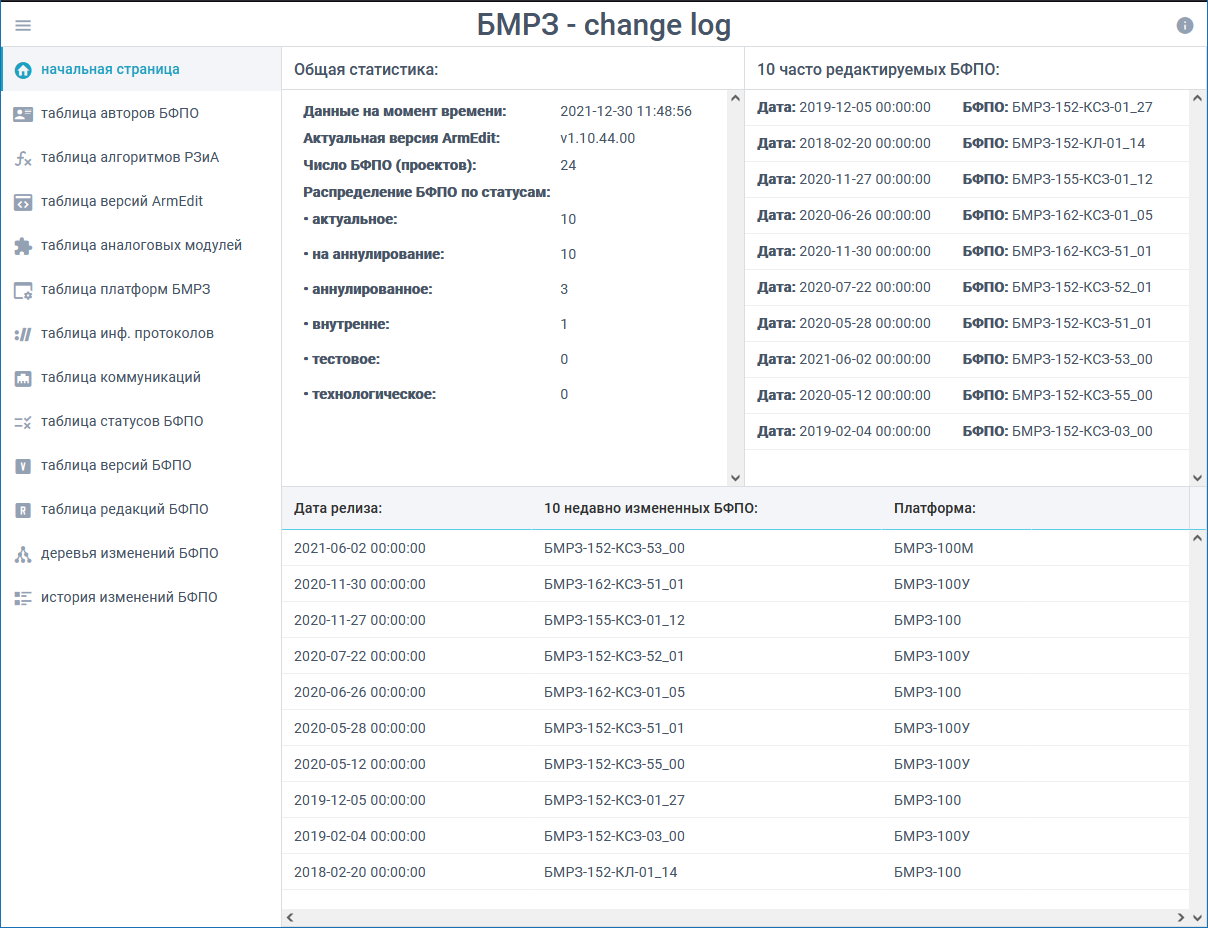
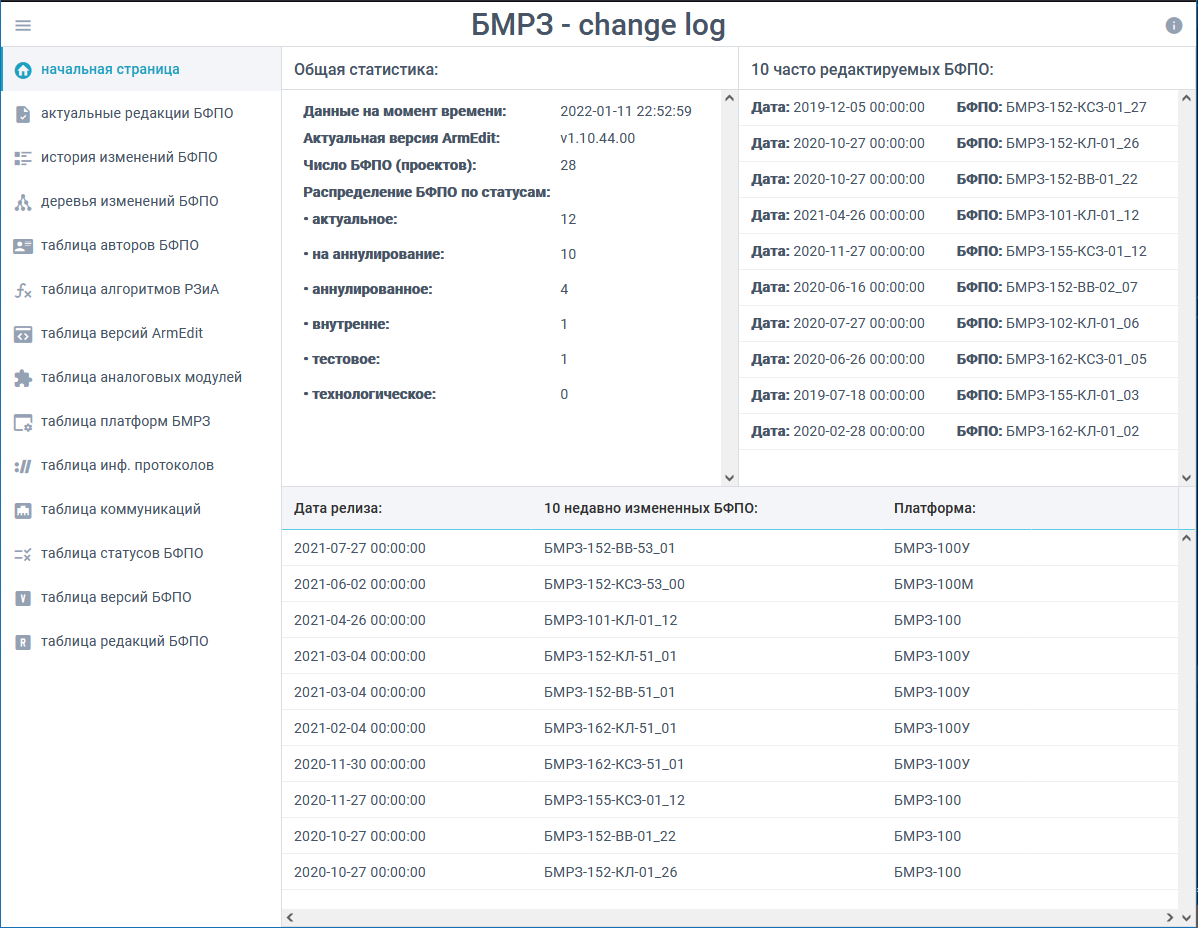
Обновление README.md файла, скриншотов

diff --git a/README.md b/README.md
@@ -57,3 +57,6 @@
     - Раздел предназначен для просмотра полной истории изменения выбранной версии проекта (БФПО) от самой последней редакции до самой первой;<br>
     - При выводе и визуализации истории изменений так же выводятся версии и редакции проектов (в хронологическом порядке) на основании которых разработана рассматриваемая версия проекта.<br>
         <p align="center"><img src="https://github.com/g-aa/MtChangeLog/blob/develop/Screenshots/historyPage.PNG" width="65%" /></p>
+14. **таблица актуальных редакций БФПО**<br>
+    - Раздел предназначен для просмотра номеров актуальных редакций всех проектов (БФПО) используемых в блоках БМРЗ-100/120/150/160.<br>
+        <p align="center"><img src="https://github.com/g-aa/MtChangeLog/blob/develop/Screenshots/lastRevisionPage.PNG" width="65%" /></p>
